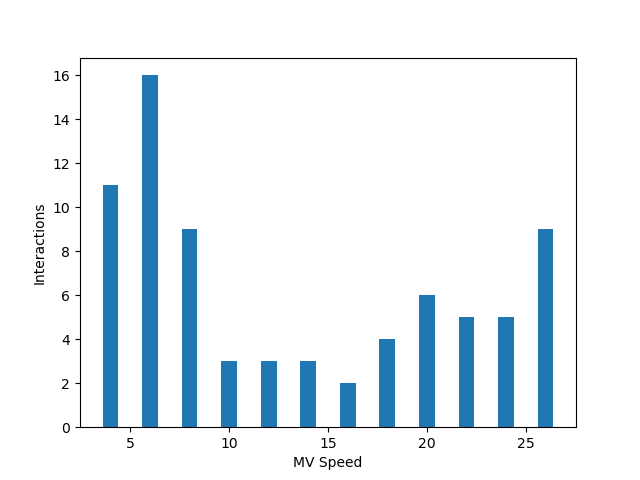
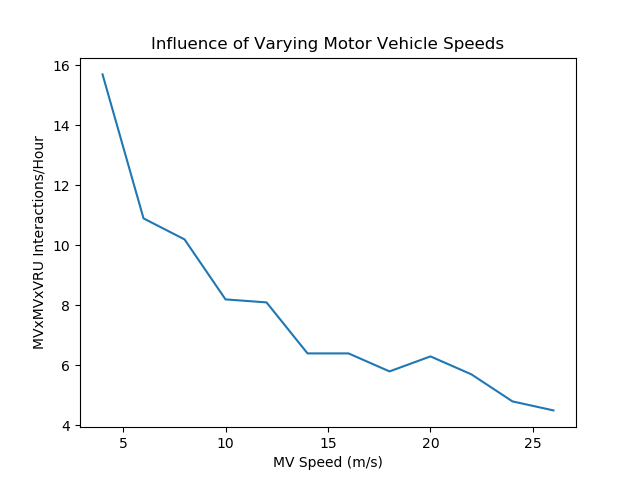
added speeds

diff --git a/Display/main_new.py b/Display/main_new.py
@@ -1382,17 +1382,17 @@ if __name__ == '__main__':
     parser.add_argument('-pp', '--pedsplit', type=int, default=50, help='specify %% of pedestrian volume traveling east, the remaining volume will travel west. range 0-100.')
     parser.add_argument('-vp', '--mvsplit', type=int, default=50, help='specify %% of vehicle volume traveling east, the remaining volume will travel west. range 0-100.')
 
-    parser.add_argument('-ca', '--cycarrival', type=int, default=0, help='specify cyclist arrival spacing (0=all cyclists arrive at equal intervals, 1=negative exponential distribution arrival).')
-    parser.add_argument('-pa', '--pedarrival', type=int, default=0, help='specify pedestrian arrival spacing (0=all pedestrians arrive at equal intervals, 1=negative exponential distribution arrival).')
-    parser.add_argument('-va', '--mvarrival', type=int, default=0, help='specify vehicle arrival spacing (0=all vehicles arrive at equal intervals, 1=negative exponential distribution arrival).')
+    parser.add_argument('-ca', '--cycarrival', type=int, default=1, help='specify cyclist arrival spacing (0=all cyclists arrive at equal intervals, 1=negative exponential distribution arrival).')
+    parser.add_argument('-pa', '--pedarrival', type=int, default=1, help='specify pedestrian arrival spacing (0=all pedestrians arrive at equal intervals, 1=negative exponential distribution arrival).')
+    parser.add_argument('-va', '--mvarrival', type=int, default=1, help='specify vehicle arrival spacing (0=all vehicles arrive at equal intervals, 1=negative exponential distribution arrival).')
 
     parser.add_argument('-cs', '--cycspeed', type=float, default=5.3645, help='specify cyclist speed in meters/second.')
     parser.add_argument('-ps', '--pedspeed', type=float, default=1.3411, help='specify ped speed in meters/second.')
     parser.add_argument('-vs', '--mvspeed', type=float, default=11.176, help='specify vehicle speed in meters/second.')
 
-    parser.add_argument('-cd', '--cycspeeddistr', type=int, default=0, help='specify cyclist speed distribution (0=all cyclists travel at cycspeed, 1=normal distribution with 85th percentile at cycspeed value).')
-    parser.add_argument('-pd', '--pedspeeddistr', type=int, default=0, help='specify pedestrian speed distribution (0=all pedestrians travel at pedspeed, 1=normal distribution with 85th percentile at pedspeed value).')
-    parser.add_argument('-vd', '--mvspeeddistr', type=int, default=0, help='specify vehicle speed distribution (0=all vehicles travel at mvspeed, 1=normal distribution with 85th percentile at mvspeed value).')
+    parser.add_argument('-cd', '--cycspeeddistr', type=int, default=1, help='specify cyclist speed distribution (0=all cyclists travel at cycspeed, 1=normal distribution with 85th percentile at cycspeed value).')
+    parser.add_argument('-pd', '--pedspeeddistr', type=int, default=1, help='specify pedestrian speed distribution (0=all pedestrians travel at pedspeed, 1=normal distribution with 85th percentile at pedspeed value).')
+    parser.add_argument('-vd', '--mvspeeddistr', type=int, default=1, help='specify vehicle speed distribution (0=all vehicles travel at mvspeed, 1=normal distribution with 85th percentile at mvspeed value).')
 
     parser.add_argument('-d', '--display', type=int, default=1, help='specify a display level from 0 to 9.\n' + \
                         '0 = display only the number and rate of interactions\n' + \

diff --git a/Display/analyze.py b/Display/analyze.py
@@ -5,3 +5,59 @@ import matplotlib.pyplot as plt
 import matplotlib.mlab as mlab
 import multiprocessing as mp
 import statistics
+
+
+def speed_helper(speed):
+    filename = "var_speed%s.txt" % str(speed)
+
+    os.system("python main_new.py -r 1000 -t 10 -vs %d > %s" % (speed, filename))
+    data = parseData(filename)
+    os.remove(filename)
+    interactions = data['MV_MV_P'] + data['MV_MV_B']
+    return (speed, interactions/10)
+
+def speed():
+    pool = mp.Pool()
+    results = [pool.apply_async(speed_helper, args=[speed]) for speed in range(4, 27, 2)]
+    output = [p.get() for p in results]
+    pool.close()
+    
+    x = [m[0] for m in output]
+    y = [m[1] for m in output]
+
+    fig = plt.figure()
+    ax1 = fig.add_subplot()
+    ax1.set_xlabel("MV Speed (m/s)")
+    ax1.set_ylabel("MVxMVxVRU Interactions/Hour")
+    ax1.set_title("Influence of Varying Motor Vehicle Speeds")
+    ax1.plot(x, y)
+    plt.show()
+
+def length_helper(length):
+    filename = "var_length%s.txt" % str(length)
+
+    os.system("python main_new.py -t 10 -r %d > %s" % (length, filename))
+    data = parseData(filename)
+    os.remove(filename)
+    interactions = data['MV_MV_P'] + data['MV_MV_B']
+    return (length, interactions/10)
+
+def length():
+    pool = mp.Pool()
+    results = [pool.apply_async(length_helper, args=[length]) for length in range(100, 2100, 100)]
+    output = [p.get() for p in results]
+    pool.close()
+    
+    x = [m[0] for m in output]
+    y = [m[1] for m in output]
+
+    fig = plt.figure()
+    ax1 = fig.add_subplot()
+    ax1.set_xlabel("Facility Length (m)")
+    ax1.set_ylabel("MVxMVxVRU Interactions/Hour")
+    ax1.set_title("Influence of Varying Facility Length")
+    ax1.plot(x, y)
+    plt.show()
+
+if __name__ == '__main__':
+    length()
